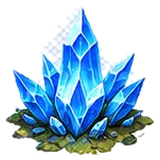
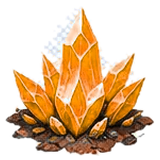
Fantasy theme: dark green ground tiles, orange flames and crystals

diff --git a/tools/fantasy_extract/orange_fire.py b/tools/fantasy_extract/orange_fire.py
@@ -1,0 +1,13 @@
+"""Turns the blue flames and the blue crystal of the fantasy set orange (hue shift), from the untouched originals AstroFire_blue.png / AstroCrystal_blue.png
+in this folder to art/fantasy/ (run from the repository root)."""
+from PIL import Image
+import numpy as np
+def orange(src, dst):
+    im = Image.open('tools/fantasy_extract/' + src).convert('RGBA'); a = im.getchannel('A')
+    h, s, v = [np.array(c).astype(float) for c in im.convert('RGB').convert('HSV').split()]
+    k = s > 25                                                    # keep greys/whites (bright cores) as they are
+    h[k] = np.clip(h[k] * 0 + 24 + (h[k] - 150) * .25, 14, 36)   # blue range -> orange/amber (PIL hue 0..255: 24 = 34 deg)
+    s[k] = np.clip(s[k] * 1.1, 0, 255)
+    out = Image.merge('HSV', [Image.fromarray(c.astype('uint8')) for c in (h, s, v)]).convert('RGB'); out.putalpha(a)
+    out.save('art/fantasy/' + dst)
+orange('AstroFire_blue.png', 'AstroFire.png'); orange('AstroCrystal_blue.png', 'AstroCrystal.png'); print('ok')

diff --git a/tools/fantasy_extract/tint_hexes.py b/tools/fantasy_extract/tint_hexes.py
@@ -1,0 +1,10 @@
+"""Gives the ground tiles (frames 0-14) of art/fantasy/AstroHexes.png a faint dark green tint, starting from the untinted original
+tools/fantasy_extract/AstroHexes_grey.png (run from the repository root)."""
+from PIL import Image
+import numpy as np
+im = np.array(Image.open('tools/fantasy_extract/AstroHexes_grey.png').convert('RGBA')).astype(float)
+m = np.array([.72, .86, .72]); add = np.array([-2, 2, -1])
+tiles = im[:660]
+tiles[..., :3] = np.clip(tiles[..., :3] * m + add, 0, 255)
+Image.fromarray(im.astype('uint8'), 'RGBA').save('art/fantasy/AstroHexes.png')
+print('tinted')
